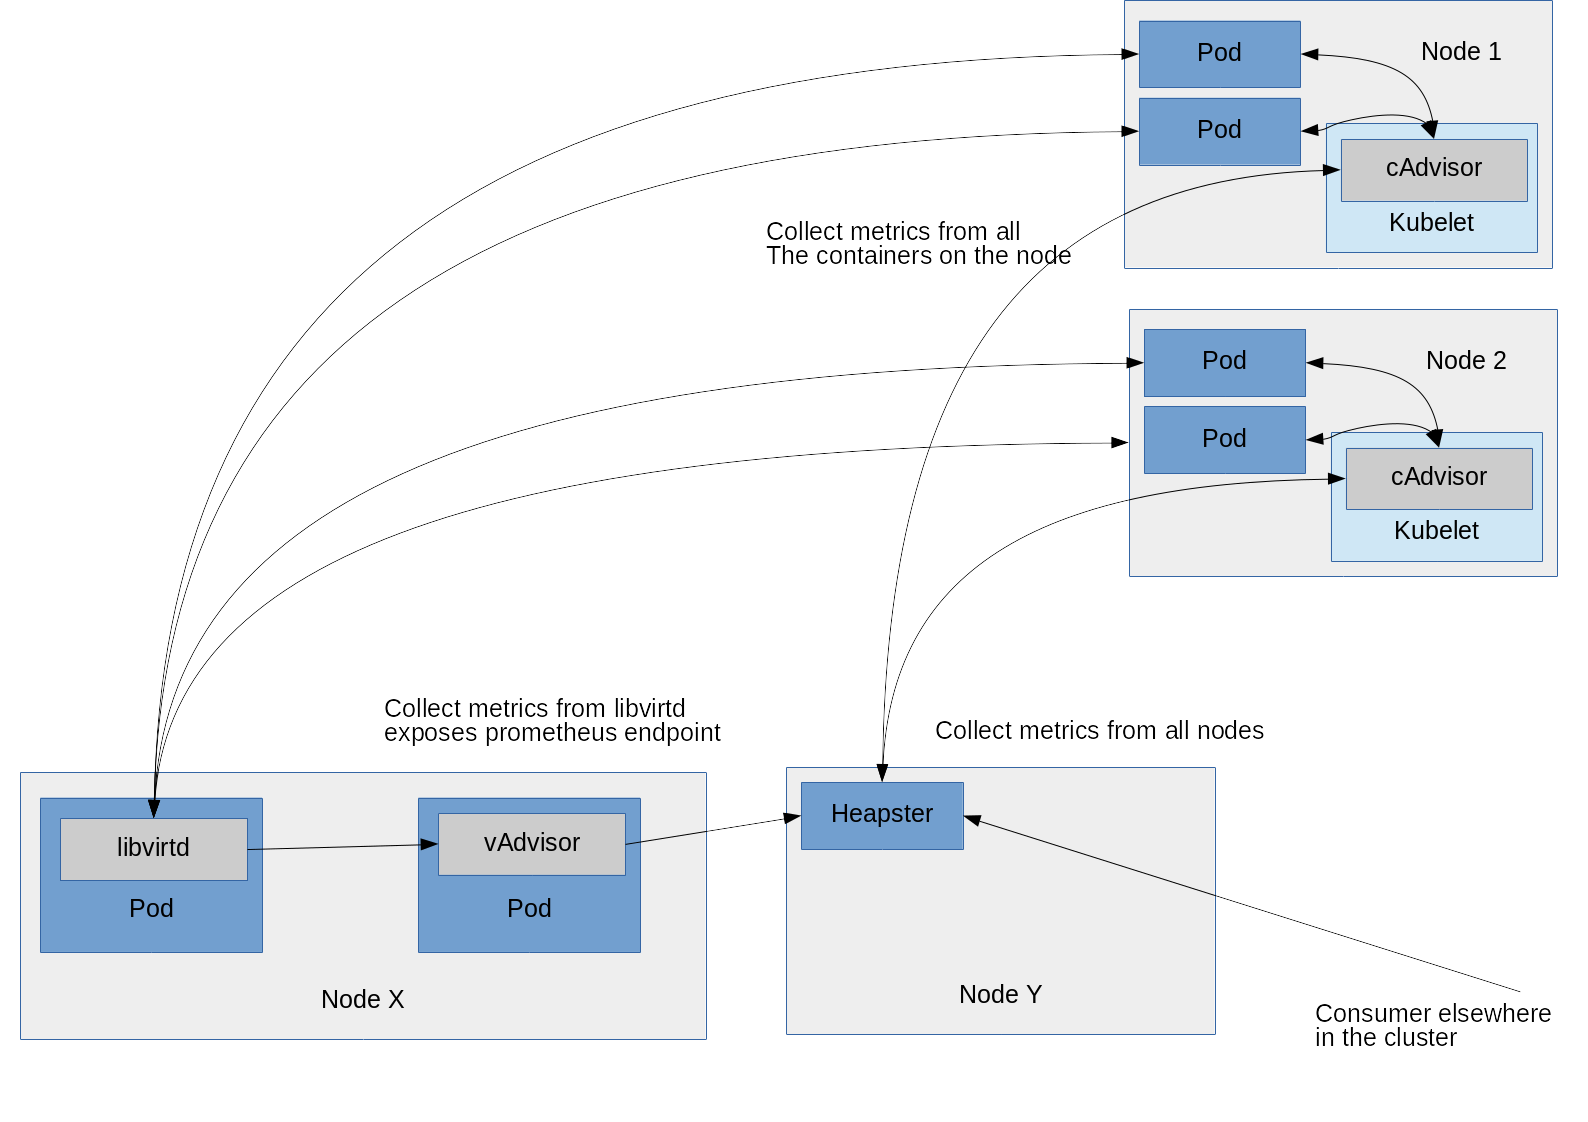
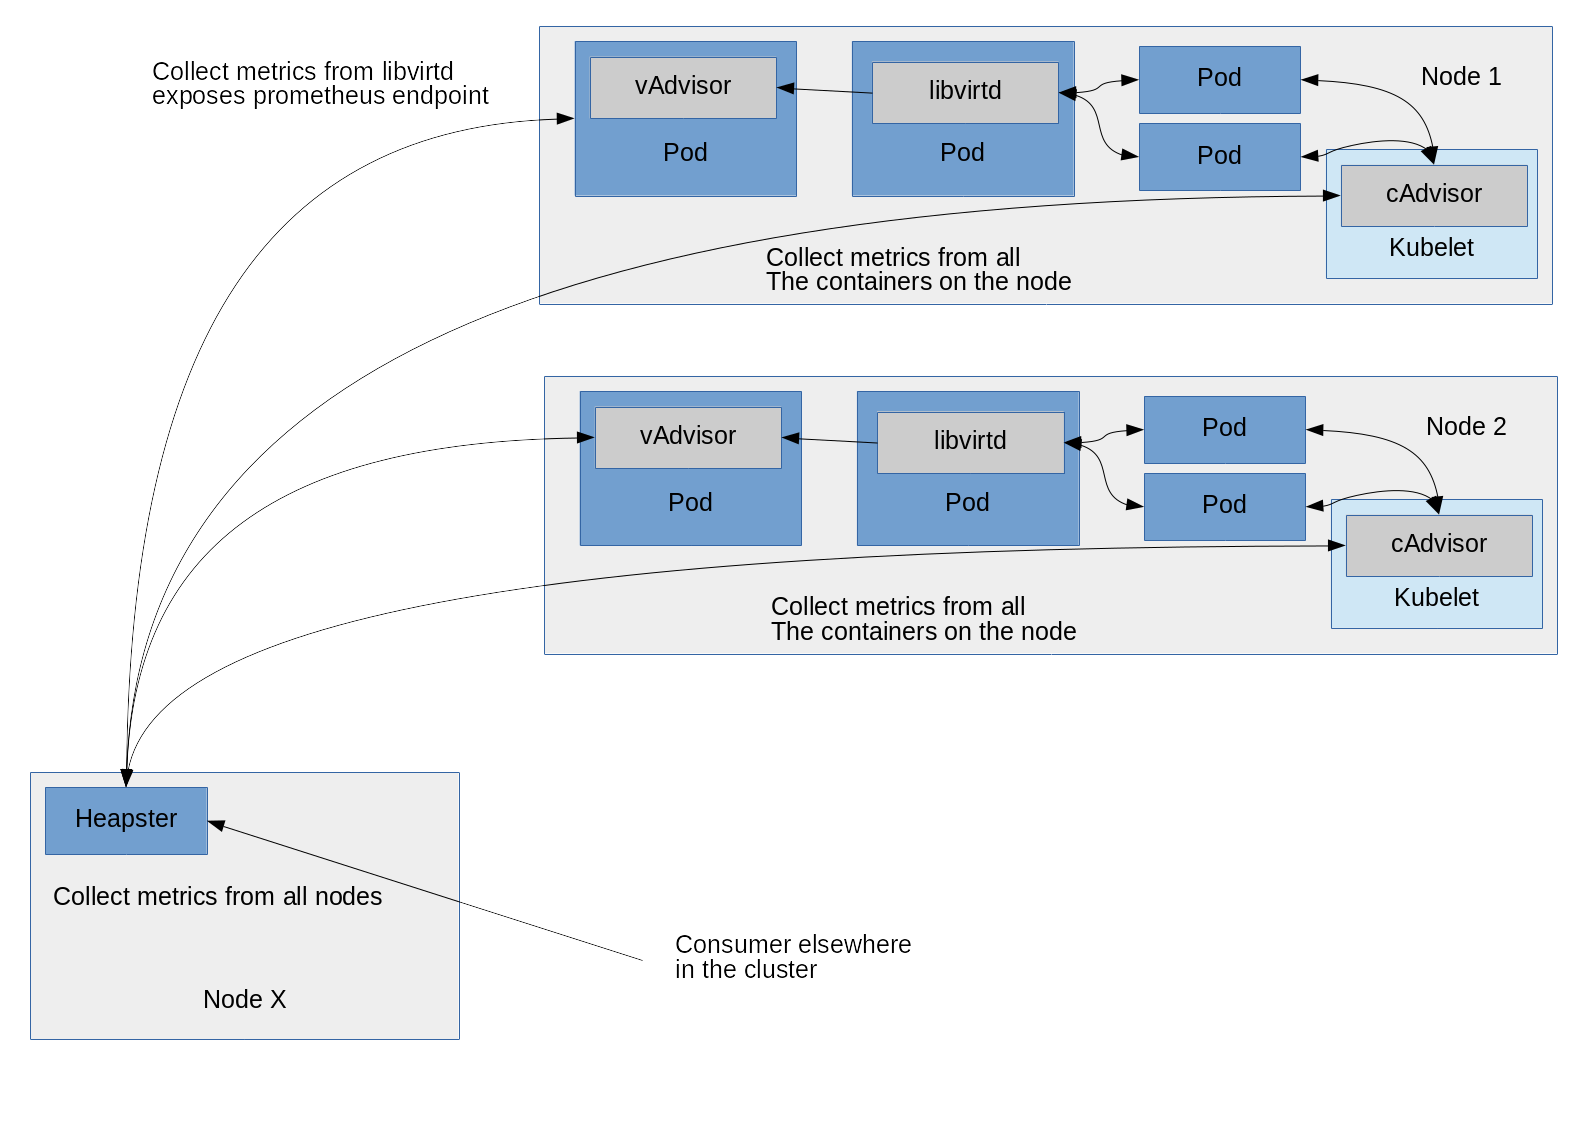
docs: address comments in PR#487
Fix spelling of Kubernetes and KubeVirt, and update
the diagram to really reflect the proposed architecture.

diff --git a/docs/vm-metrics.md b/docs/vm-metrics.md
@@ -2,11 +2,11 @@
 VM expose a different, and partially overlapping, set of metrics with
 respect to containers. This document explain the differences and how
 those metrics are made available to the cluster, to be consumed using
-the standard kubernetes facilities.
+the standard Kubernetes facilities.
 
 ## libvirt metrics
 [libvirt](https://libvirt.org/) is the virtualization framework that
-kubevirt uses; in order to describe the VM metrics in kubevirt, the
+KubeVirt uses; in order to describe the VM metrics in KubeVirt, the
 first step is to inspect what libvirt provides, and how it collect the
 data.
 
@@ -89,11 +89,11 @@ From now on, the overlapping metrics  (aka 'system metrics') will be ignored,
 and we will focus on the 'hypervisor' and 'guest agent' metrics.
 
 ## collection of VM metrics
-A natural fit for the kubevirt specific metrics is the [custom metrics](
-https://github.com/kubernetes/kubernetes/blob/release-1.2/docs/proposals/custom-metrics.md).
+A natural fit for the KubeVirt specific metrics is the [custom metrics](
+https://github.com/Kubernetes/Kubernetes/blob/release-1.2/docs/proposals/custom-metrics.md).
 All the metrics are accessible through the libvirt API.
 
-The collection of the VM metrics will be done by a separate pod, implemented as kubernetes DaemonSet.
+The collection of the VM metrics will be done by a separate pod, implemented as Kubernetes DaemonSet.
 This is because the metrics are available from a centralized source, the libvirt daemon.
 To increase resilience, each node should expose all the metrics it knows about, avoiding
 a single point of failure per cluster. The resulting architecture is shown in the figure below.
@@ -145,7 +145,7 @@ exported dataset in the following manner
 
 - It always export all the metrics it knows about, even if the real data is not yet available.
   Such metrics report the special value [TODO: which one? does this
-  concept exist in kubernetes?] until the real data is available.
+  concept exist in Kubernetes?] until the real data is available.
   For example, the VM metric `VM.migration.dataTotal` will be always
   reported even before the first migration was attempted, if ever.
 
@@ -166,11 +166,11 @@ the durability of the data:
 ## Implementation notes
 
 To implement the VM metrics collection and reporting, we will initially
-adapt the [vAdvisor project](https://github.com/kubevirt/vAdvisor),
+adapt the [vAdvisor project](https://github.com/KubeVirt/vAdvisor),
 fixing any gaps the project have with the state described above.
 vAdvisor is implemented in python. Once vAdvisor is feature-complete, we
 will rewrite in golang. This rewrite is motivated by those factors:
-- projects in golang have a better integration with the kubernetes ecosystem
+- projects in golang have a better integration with the Kubernetes ecosystem
 - projects in golang requires a simpler and smaller container image
 - we know from experience with [related](http://www.collectd.org)
   [projects](http://www.ovirt.org) that collecting and reporting metrics
